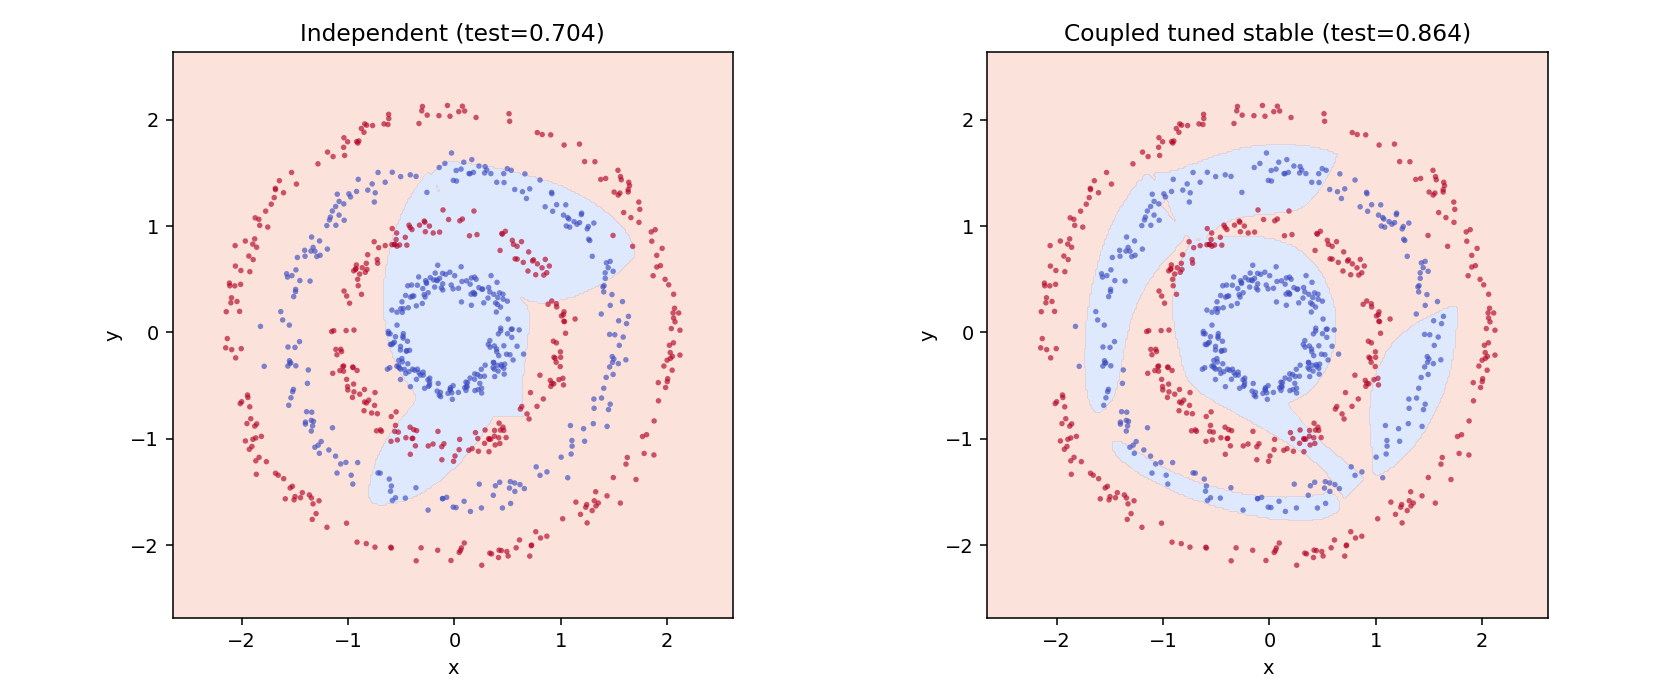
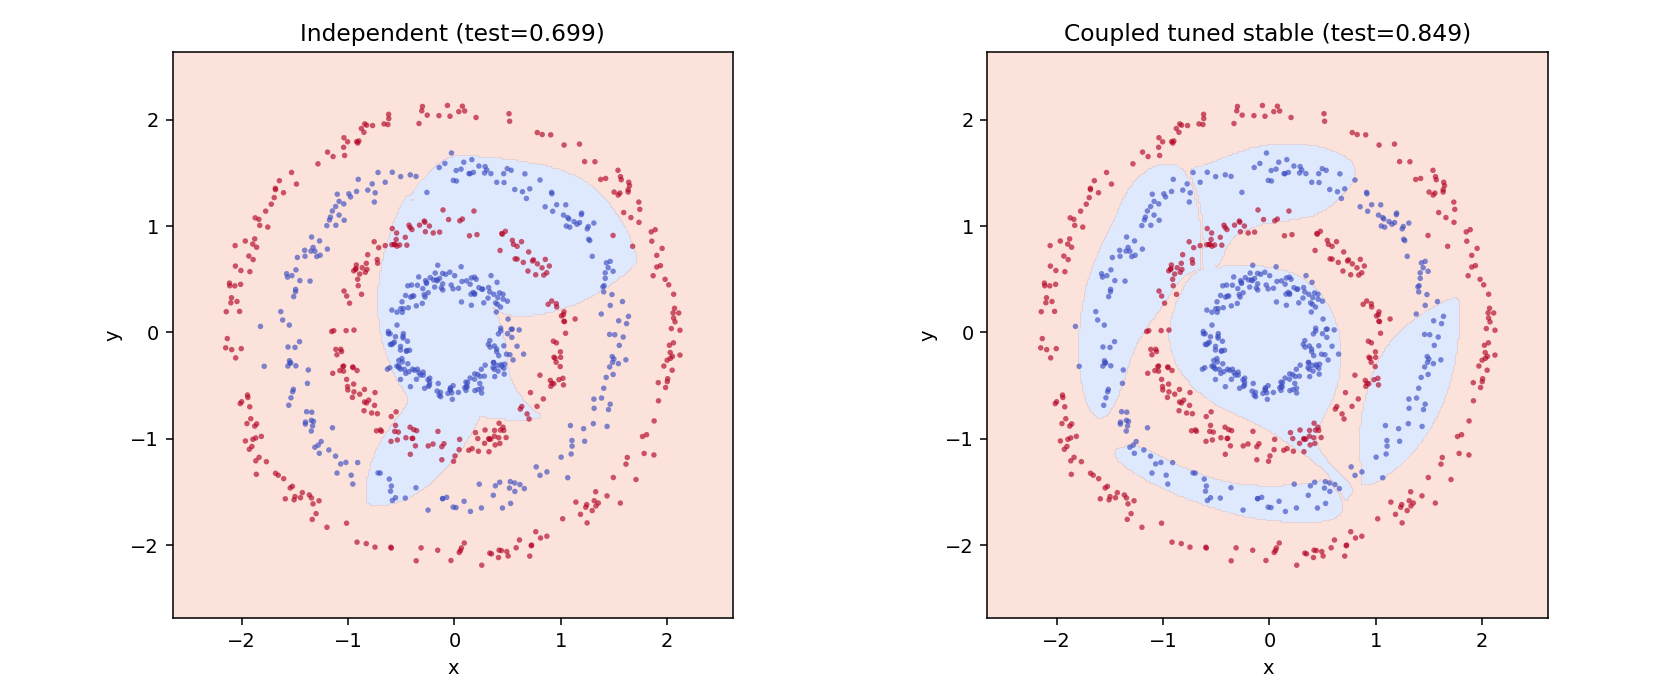
Add files via upload

diff --git a/README.md b/README.md
@@ -122,6 +122,16 @@ Ablation couplage sur anneaux concentriques alternes :
 - Protocole principal : multi-seeds (`n_runs=5` par defaut) avec aggregation statistique.
 - Sortie standard : `experiments/concentric_coupling_ablation_summary.json`
 - Figure optionnelle : `concentric_coupling_ablation.png` (premier run uniquement, via flag)
+- Résultat multi-seeds observé (run court `n_runs=2`, seeds `42,43`) :
+  - indépendant : `66.19% ± 3.69`
+  - couplé tuned : `79.19% ± 5.69`
+  - delta moyen : `+13.00 points`
+- Lecture qualitative (figure) :
+  - indépendant : frontière majoritairement convexe, ne capture pas correctement la topologie annulaire.
+  - couplé tuned : frontière non convexe alignée avec la géométrie en anneaux alternés.
+  - interprétation : différence qualitative cohérente avec `P5` (classe de fonctions représentables plus large en hiérarchie bidirectionnelle).
+- Réserve :
+  - présence possible de lobes parasites sur certains runs couplés, compatible avec les instabilités inter-niveaux observées en fin d'entraînement.
 
 Commande de reproduction :
 - `python experiments/concentric_coupling_ablation.py`
@@ -175,6 +185,8 @@ Delta couplage (HAML couplé - HAML indépendant) :
 Interprétation :
 - Le gain du couplage suit un profil en cloche : nul à bruit faible, maximal à bruit intermédiaire, faible à bruit fort.
 - Ce comportement est cohérent avec l'hypothèse théorique : le top-down apporte surtout quand le signal local est ambigu mais encore exploitable.
+- Prédiction falsifiable associée :
+  - si l'hypothèse est correcte, le profil en cloche du gain couplé-vs-indépendant doit se reproduire sur plusieurs datasets et en multi-seeds, avec un maximum à bruit intermédiaire et un gain réduit aux extrêmes (bruit faible et bruit fort).
 
 Synthèse théorie/expérience (état actuel) :
 - Anneaux concentriques : gain couplé vs indépendant jusqu'à `+16.00 points` (cas structurel favorable à la hiérarchie).
@@ -204,10 +216,15 @@ Comparaison additionnelle HAML vs SA-nODE-reimpl (même protocole bruité, seed 
   - SA-nODE-reimpl tuned : `-3.33 points`
 - Lecture :
   - HAML couplé domine en niveau absolu sur tout le spectre de bruit testé.
-  - SA-nODE-reimpl tuned dégrade moins vite sous bruit croissant, ce qui indique un trade-off robustesse relative vs niveau absolu.
+  - SA-nODE-reimpl tuned dégrade moins vite sous bruit croissant ; ce point est une tension ouverte avec l'intuition "top-down plus robuste" et doit être expliqué par une analyse mécanistique dédiée (dynamique des niveaux, saturation/instabilité sous bruit fort).
   - à bruit `0.40`, l'écart reste faible (`+1.73 pt`) et doit être confirmé multi-seeds avant claim fort.
   - conclusion défendable: dans des conditions d'implémentation contrôlées, la hiérarchie bidirectionnelle surpasse le modèle plat sur tous les niveaux de bruit testés.
   - limite explicite: ces résultats ne permettent pas de conclure directement contre l'implémentation officielle SA-nODE; un benchmark externe dédié reste nécessaire.
+
+Méthode adjointe (précaution d'interprétation mémoire) :
+- Le gain `0.45 MB` vs `66.16 MB` rapporté dans le benchmark RK4 vs adjoint provient de `tracemalloc` (allocations Python tracées).
+- Ce chiffre décrit un proxy partiel de mémoire runtime ; il ne mesure ni la mémoire totale du processus, ni la mémoire GPU.
+- La formulation correcte est donc : "forte réduction de la mémoire Python tracée", et non "réduction mémoire globale" sans benchmark système/GPU complémentaire.
 
 Commande de reproduction :
 - `python experiments/noisy_sanode_comparison.py`

diff --git a/CHANGELOG.md b/CHANGELOG.md
@@ -12,6 +12,16 @@ Le format est basé sur [Keep a Changelog](https://keepachangelog.com/fr/1.0.0/)
 - Ajout d'une aggregation statistique (moyenne/ecart-type/min/max) des accuracies et temps d'entrainement.
 - Export standard des resultats dans `experiments/concentric_coupling_ablation_summary.json`.
 - Le script conserve une figure optionnelle de frontieres pour le premier run uniquement.
+- README enrichi avec l'analyse concentrique qualitative + quantitative :
+  - ajout d'un résultat multi-seeds observé (`n_runs=2`, seeds `42,43`) : delta moyen couplé vs indépendant `+13.00 points`
+  - explicitation du signal qualitatif de frontière (topologie annulaire capturée en mode couplé, non capturée en mode indépendant)
+  - réserve documentée sur les lobes parasites et l'instabilité inter-niveaux tardive.
+- Clarification scientifique ajoutée sur la comparaison bruitée HAML vs SA-nODE-reimpl :
+  - la dégradation plus faible de SA-nODE-reimpl sous bruit croissant est maintenue comme tension ouverte à expliquer (pas masquée comme simple trade-off descriptif).
+- Reformulation de la claim mémoire adjointe :
+  - le ratio `0.45 MB` vs `66.16 MB` est précisé comme métrique `tracemalloc` (mémoire Python tracée), proxy partiel et non mesure de mémoire globale processus/GPU.
+- Ajout d'une prédiction falsifiable explicite pour l'hypothèse "ambiguïté intermédiaire" :
+  - le profil en cloche du gain de couplage doit se reproduire en multi-seeds sur d'autres datasets.
 ### Modifié - 2026-05-12
 - Exécution du benchmark bruité reproductible `experiments/noisy_benchmark.py` (seed fixe `42`, `n_samples=3000`) comparant :
   - HAML indépendant (`alpha_bu=0`, `alpha_td=0`)
